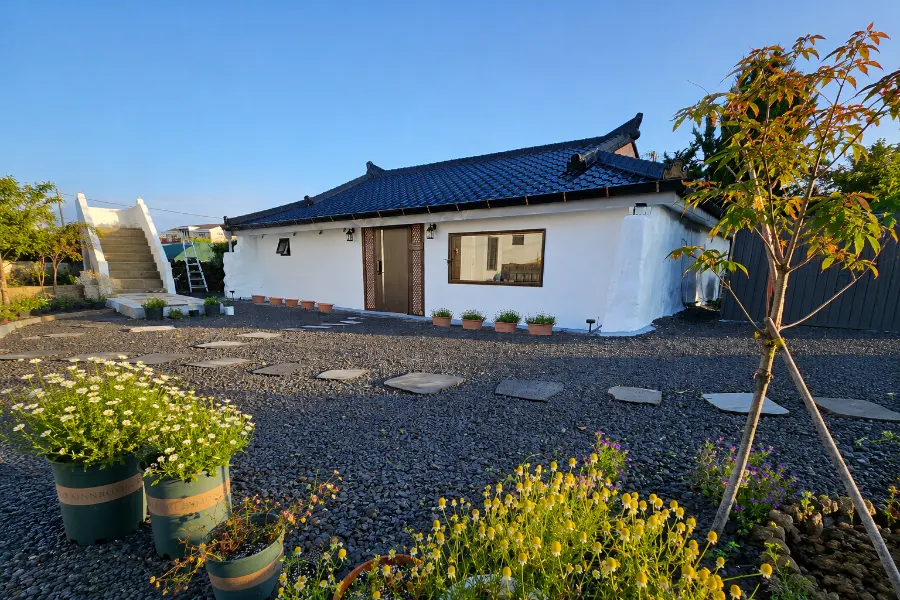
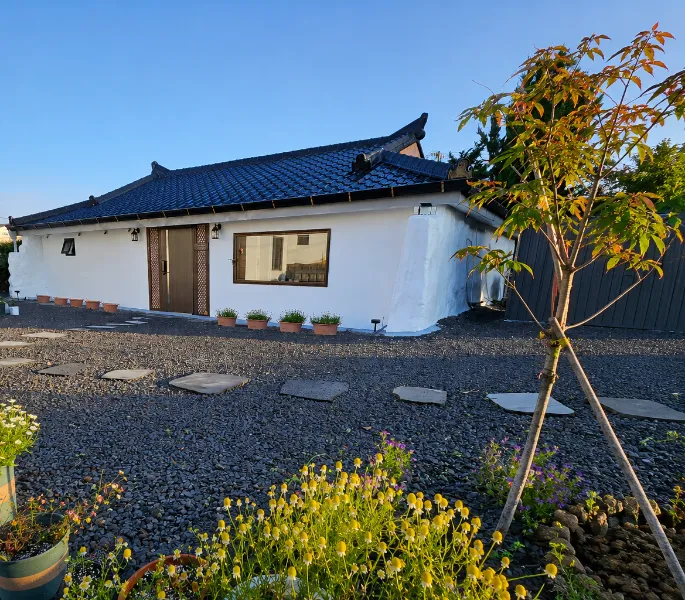
첫 화면 사진에서 왼쪽 흰 계단 잘라냄

diff --git a/index.html b/index.html
@@ -42,7 +42,7 @@
 <a class="skip" href="#main">본문으로 건너뛰기</a>
 
 <header class="hero">
-  <img class="hero-photo" src="/images/house-evening.webp" alt="해 질 녘 사계담소 돌담집 바깥채와 자갈 마당" width="900" height="600" fetchpriority="high">
+  <img class="hero-photo" src="/images/house-evening.webp" alt="해 질 녘 사계담소 돌담집 바깥채와 자갈 마당" width="685" height="600" fetchpriority="high">
   <div class="hero-shade" aria-hidden="true"></div>
   <nav class="topbar" aria-label="사계담소">
     <span class="brand">사계담소</span>
